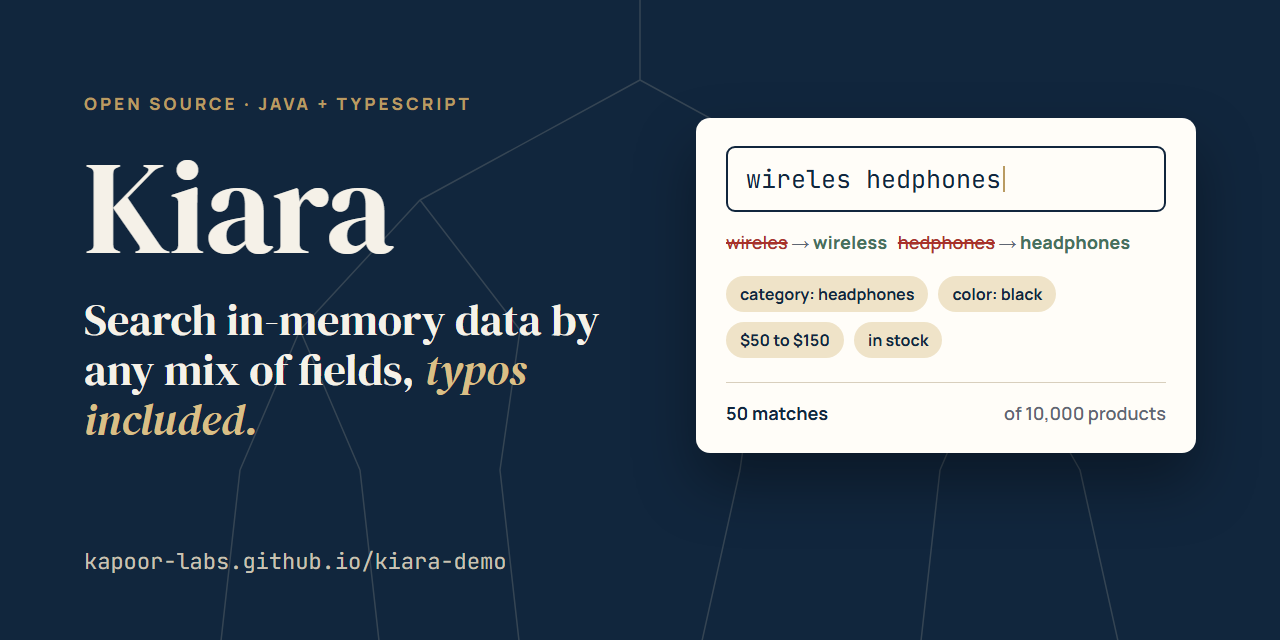
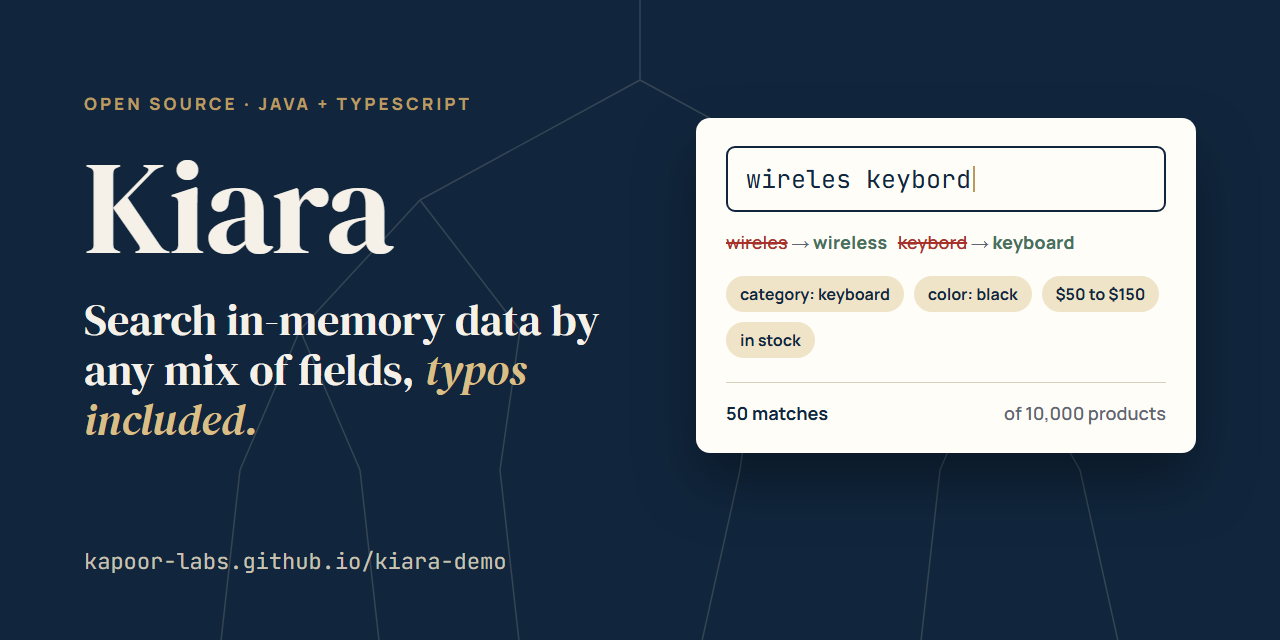
update benchmark numbers and typo example for kiara-ts 1.2.1

Changed region(s): [[0.5625, 0.375, 0.9062, 0.5625], [0.6875, 0.25, 0.7812, 0.3125]]

diff --git a/index.html b/index.html
@@ -67,8 +67,8 @@
         </div>
         <div class="float-card" data-enter style="animation-delay:1s">
           <span class="small">Three fields equal, 100,000 records</span>
-          <span class="big">0.37 ms</span>
-          <span class="vs">Fuse.js: 47 ms</span>
+          <span class="big">0.16 ms</span>
+          <span class="vs">Fuse.js: 41 ms</span>
           <span class="source">Published benchmark, see below</span>
         </div>
       </div>
@@ -124,17 +124,17 @@
       </div>
       <div class="panel show" role="tabpanel" id="panel-0" aria-labelledby="tab-0">
         <div class="panel-copy">
-          <h3>"wireles hedphones" still finds wireless headphones.</h3>
-          <p>Fields marked <code>oneEditAway</code> accept one wrong, missing or extra letter per word. The result tells you what was corrected, so your interface can show it.</p>
+          <h3>"wireles keybord" still finds wireless keyboards.</h3>
+          <p>Fields marked <code>oneEditAway</code> can fix one wrong, missing or extra letter per word. It doesn't catch every typo, and one near the start of a word often stays uncorrected. The result tells you what was corrected, so your interface can show it.</p>
           <p>Plurals work too. With stemming, "laptops" finds laptop.</p>
         </div>
         <div class="doc"><div class="doc-head"><span>keyword-search.ts</span><span>example</span></div>
 <pre><span class="c">// mark the field once</span>
 textField("name", { <span class="mark">oneEditAway: true</span>, stemmedIndex: true })
 
-keywordSearch.bestMatch("wireles hedphones")
+keywordSearch.bestMatch("wireles keybord")
 <span class="c">// correctedKeywords:</span>
-<span class="mark">{ wireles: "wireless", hedphones: "headphones" }</span></pre></div>
+<span class="mark">{ wireles: "wireless", keybord: "keyboard" }</span></pre></div>
       </div>
       <div class="panel" role="tabpanel" id="panel-1" aria-labelledby="tab-1" hidden>
         <div class="panel-copy">
@@ -176,7 +176,7 @@ dictionary.predict("wi", 5)
           <label for="q">Keyword search with typo correction and type-ahead</label>
           <div class="search-field">
             <svg viewBox="0 0 24 24" fill="none" stroke="currentColor" stroke-width="2.2" aria-hidden="true"><circle cx="11" cy="11" r="7"/><path d="m20 20-3.5-3.5"/></svg>
-            <input id="q" type="text" autocomplete="off" spellcheck="false" placeholder="Try: wireles hedphones" role="combobox" aria-autocomplete="list" aria-expanded="false" aria-controls="suggest">
+            <input id="q" type="text" autocomplete="off" spellcheck="false" placeholder="Try: wireles keybord" role="combobox" aria-autocomplete="list" aria-expanded="false" aria-controls="suggest">
           </div>
           <ul id="suggest" role="listbox" hidden></ul>
           <div class="presets">
@@ -236,16 +236,16 @@ dictionary.predict("wi", 5)
         <p class="lede">Median query time, lower is better. Kiara won all 26 scenarios both libraries can run. The bars use a log scale, because the gap is too wide for a straight one.</p>
       </div>
       <div class="chart" id="chart">
-        <div class="legend"><span><i style="background:var(--navy)"></i>Kiara (kiara-ts 1.2.0)</span><span><i style="background:var(--gold)"></i>Fuse.js</span></div>
+        <div class="legend"><span><i style="background:var(--navy)"></i>Kiara (kiara-ts 1.2.1)</span><span><i style="background:var(--gold)"></i>Fuse.js</span></div>
         <div id="bench-rows"></div>
-        <div class="axis"><span></span><div class="ticks"><span style="left:0">0.1 ms</span><span style="left:25%">1</span><span style="left:50%">10</span><span style="left:75%">100</span><span style="left:100%">1,000 ms</span></div><span></span></div>
+        <div class="axis"><span></span><div class="ticks"><span style="left:0">0.01<i> ms</i></span><span style="left:20%">0.1</span><span style="left:40%">1</span><span style="left:60%">10</span><span style="left:80%">100</span><span style="left:100%">1,000<i> ms</i></span></div><span></span></div>
       </div>
       <div class="honest">
-        <div class="reveal"><b>Where Fuse.js wins: build time</b><span>0.27 s for Fuse.js, 4.3 s for Kiara to prepare 100,000 records.</span></div>
-        <div class="reveal"><b>Where Fuse.js wins: memory</b><span>110 MB for Fuse.js, 489 MB for Kiara's prepared indexes.</span></div>
+        <div class="reveal"><b>Where Fuse.js wins: build time</b><span>0.23 s for Fuse.js, 4.0 s for Kiara to prepare 100,000 records.</span></div>
+        <div class="reveal"><b>Where Fuse.js wins: memory</b><span>110 MB for Fuse.js, 477 MB for Kiara's prepared indexes.</span></div>
         <div class="reveal"><b>Choosing between them</b><span>Fuse.js suits fast-changing data and looser fuzzy matching. Kiara suits read-heavy data with many filter combinations.</span></div>
       </div>
-      <p class="source" style="margin-top:18px">Source: <a href="https://dev.to/kapoorlabscom/meet-kiaradb-client-side-search-up-to-500x-faster-than-fusejs-its-not-even-close-158k" target="_blank" rel="noopener">KapoorLabs benchmark on dev.to</a>. One machine, mostly synthetic data, median of three isolated runs. Your results will differ.</p>
+      <p class="source" style="margin-top:18px">Source: <a href="https://github.com/kapoor-labs/kiara-ts-examples/blob/main/docs/fuse-comparison.md" target="_blank" rel="noopener">KapoorLabs benchmark on GitHub</a>. One machine, mostly synthetic data, median of three isolated runs. Your results will differ.</p>
     </div>
   </section>
 

diff --git a/src/main.js b/src/main.js
@@ -231,16 +231,16 @@ import { makeCatalog } from "./catalog.js";
     });
   }));
 
-  // bench chart, log scale 0.1 - 1000 ms
+  // bench chart, log scale 0.01 - 1000 ms
   const BENCH = [
-    ["First 20 active products", 0.15, 75, "515\u00d7"],
-    ["Stemmed \"chargers\", top 10", 1.0, 363, "365\u00d7"],
-    ["Typo \"wireles lamp\", top 10", 1.95, 422, "216\u00d7"],
-    ["One date equal", 0.28, 45, "163\u00d7"],
-    ["Three fields equal", 0.37, 47, "128\u00d7"],
-    ["Contains all of two tags", 3.2, 40, "12\u00d7"],
+    ["First 20 active products", 0.016, 62, "3,845\u00d7"],
+    ["Stemmed \"chargers\", top 10", 0.13, 370, "2,937\u00d7"],
+    ["Typo \"wireles lamp\", top 10", 1.36, 432, "318\u00d7"],
+    ["Three fields equal", 0.16, 41, "262\u00d7"],
+    ["One date equal", 0.32, 36, "114\u00d7"],
+    ["Contains all of two tags", 2.4, 32, "13\u00d7"],
   ];
-  const pos = (ms) => ((Math.log10(ms) + 1) / 4) * 100;
+  const pos = (ms) => ((Math.log10(ms) + 2) / 5) * 100;
   $("bench-rows").innerHTML = BENCH.map(([q, k, f, x], i) => `
     <div class="brow"><span class="q">${esc(q)}</span>
       <div class="bars">
@@ -253,7 +253,7 @@ import { makeCatalog } from "./catalog.js";
   const FAQ = [
     ["Is Kiara free to use?", "Yes. The Java library is licensed under Apache-2.0 and the TypeScript library under MIT. Both are on GitHub."],
     ["Does it store data on disk?", "No. Kiara is an in-memory, read-only store. You load records, prepare them, and search. To change the data, prepare a new snapshot and swap it in."],
-    ["How much data can it handle?", "Records and indexes must fit in memory. In the published benchmark, preparing 100,000 records took 4.3 seconds and 489 MB. Measure with your own data, especially in a browser."],
+    ["How much data can it handle?", "Records and indexes must fit in memory. In the published benchmark, preparing 100,000 records took 4.0 seconds and 477 MB. Measure with your own data, especially in a browser."],
     ["How is it different from Fuse.js?", "Fuse.js is a fuzzy matcher that builds quickly and tolerates looser spelling. Kiara prepares indexes so exact multi-field filters, stemming, one-edit typo fixes and type-ahead run fast on read-heavy data."],
     ["Which Java and TypeScript versions are supported?", "The Java library targets Java 8 and is tested on Java 8, 11, 17, 21 and 25. The TypeScript library is an ESM package with type declarations and uses standard TypeScript 5 decorators if you choose decorators."],
     ["Where can I ask questions or report a bug?", "Open an issue on the GitHub repository for the library you use. Feedback on use cases is welcome too."],
@@ -297,7 +297,7 @@ import { makeCatalog } from "./catalog.js";
       if (level === "good") level = "maybe";
       reasons.push("More than a million records must fit in memory with their indexes. Test memory early, or split the data by feature or key.");
     } else if (answers.size === "l") {
-      reasons.push("At this size, prepare once at startup. The published benchmark prepared 100,000 records in 4.3 seconds.");
+      reasons.push("At this size, prepare once at startup. The published benchmark prepared 100,000 records in 4.0 seconds.");
     }
     if (answers.fields === "few" && answers.need === "combo") {
       if (level === "good") level = "maybe";
@@ -634,7 +634,7 @@ import { makeCatalog } from "./catalog.js";
   }
 
   const PRESETS = {
-    typo: { q: "wireles hedphones" },
+    typo: { q: "wireles keybord" },
     plural: { q: "gaming laptops", max: 800, rating: "4" },
     combo: { brands: ["Kestrel"], colors: ["red"], tags: ["usb-c"] },
     range: { category: "monitor", min: 200, max: 400 },

diff --git a/src/style.css b/src/style.css
@@ -233,9 +233,11 @@ mark { background: var(--gold-soft); color: var(--navy); border-bottom: 2px soli
 .axis { display: grid; grid-template-columns: 240px minmax(0, 1fr) 70px; gap: 18px; font-family: var(--font-mono); font-size: 12px; color: var(--muted); }
 @media (max-width: 760px) { .axis { grid-template-columns: minmax(0, 1fr); } .axis > :not(.ticks) { display: none; } }
 .ticks { position: relative; height: 18px; }
-.ticks span { position: absolute; transform: translateX(-50%); }
+.ticks span { position: absolute; transform: translateX(-50%); white-space: nowrap; }
 .ticks span:first-child { transform: none; }
 .ticks span:last-child { transform: translateX(-100%); }
+.ticks i { font-style: normal; }
+@media (max-width: 760px) { .ticks i { display: none; } }
 .honest { display: grid; grid-template-columns: repeat(3, minmax(0, 1fr)); gap: 14px; margin-top: 22px; }
 @media (max-width: 860px) { .honest { grid-template-columns: minmax(0, 1fr); } }
 .honest div { padding: 18px 20px; border-radius: 6px; background: var(--paper-2); border-left: 3px solid var(--gold); display: grid; gap: 4px; }
